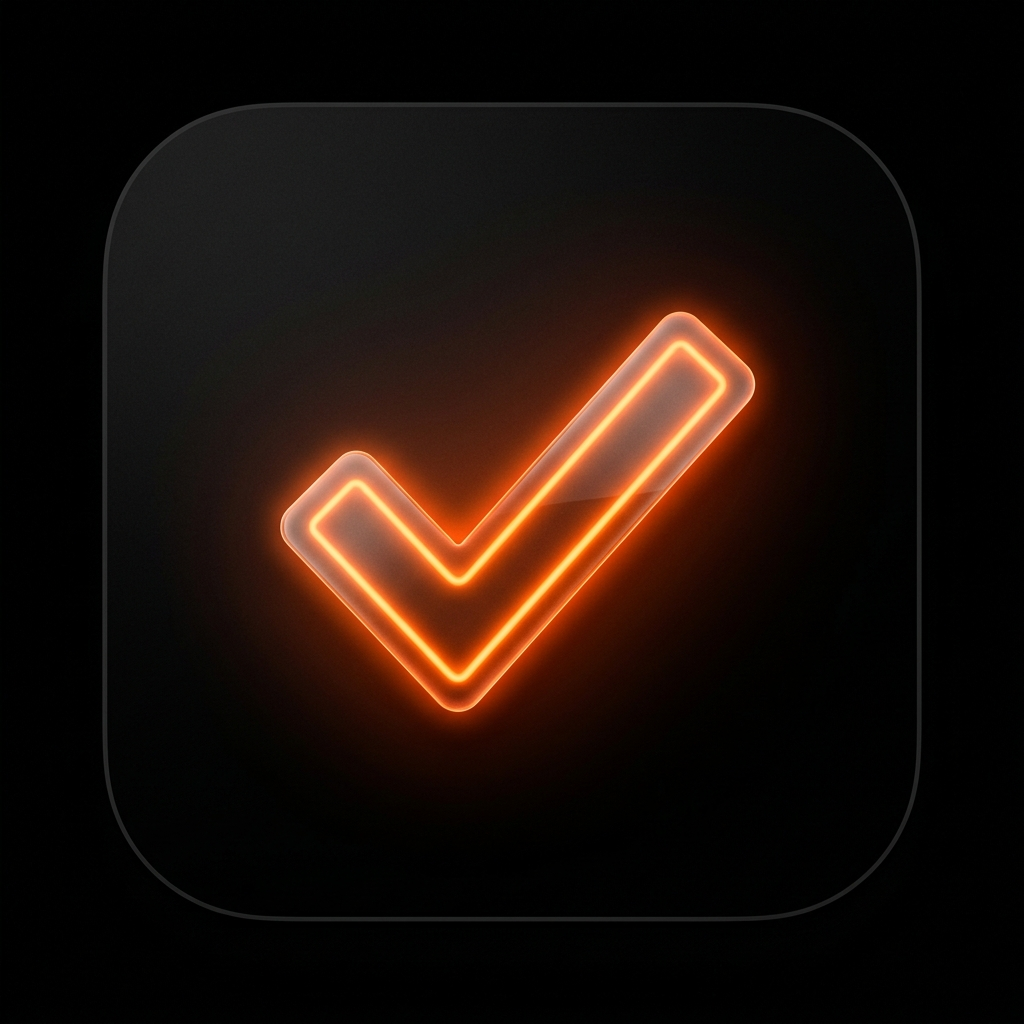
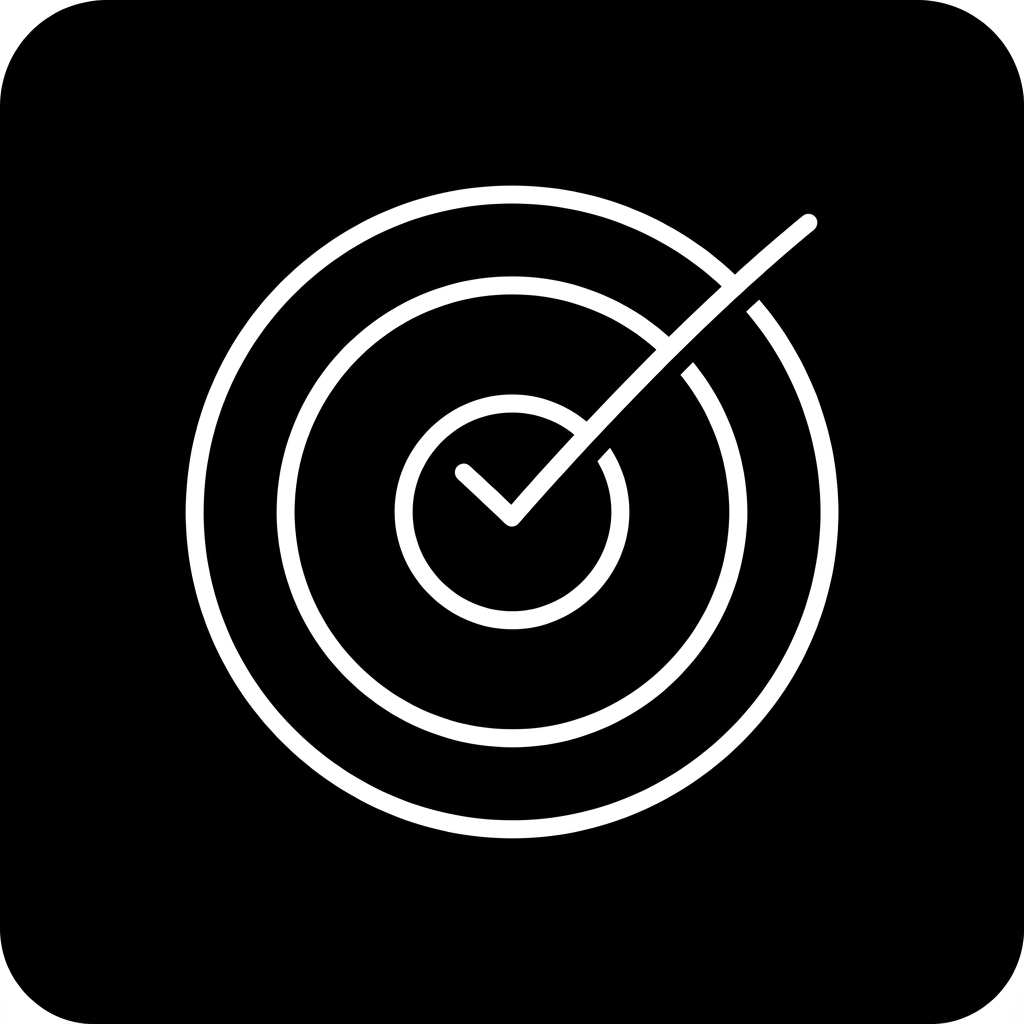
Enable true offline PWA and fix Pomodoro Safari Audio Alarm

diff --git a/app/page.jsx b/app/page.jsx
@@ -915,6 +915,7 @@ export default function App() {
                       const isActive = pomodoroInitialTime === m * 60;
                       return (
                         <button key={m} onClick={() => {
+                          haptic('light');
                           const secs = m * 60;
                           setPomodoroInitialTime(secs);
                           setPomodoroTime(secs);
@@ -970,14 +971,14 @@ export default function App() {
                         </div>
                         <div style={{ display: 'flex', gap: '8px', marginTop: '4px', justifyContent: 'center' }}>
                           {isTimerRunning ? (
-                            <button onClick={() => setIsTimerRunning(false)} style={{
+                            <button onClick={() => { haptic('light'); setIsTimerRunning(false); }} style={{
                               padding: '9px 20px', borderRadius: '999px', fontWeight: 700,
                               fontSize: '13px', background: 'rgba(239,68,68,0.12)',
                               color: '#ef4444', border: '1px solid rgba(239,68,68,0.25)', cursor: 'pointer',
                             }}>Stop</button>
                           ) : (
                             <>
-                              <button onClick={() => setIsTimerRunning(true)} style={{
+                              <button onClick={() => { haptic('light'); getAudioCtx(); setIsTimerRunning(true); }} style={{
                                 padding: '9px 22px', borderRadius: '999px', fontWeight: 700,
                                 fontSize: '13px', background: neon, color: '#000', border: 'none', cursor: 'pointer',
                                 boxShadow: `0 0 20px ${neon}88`,
